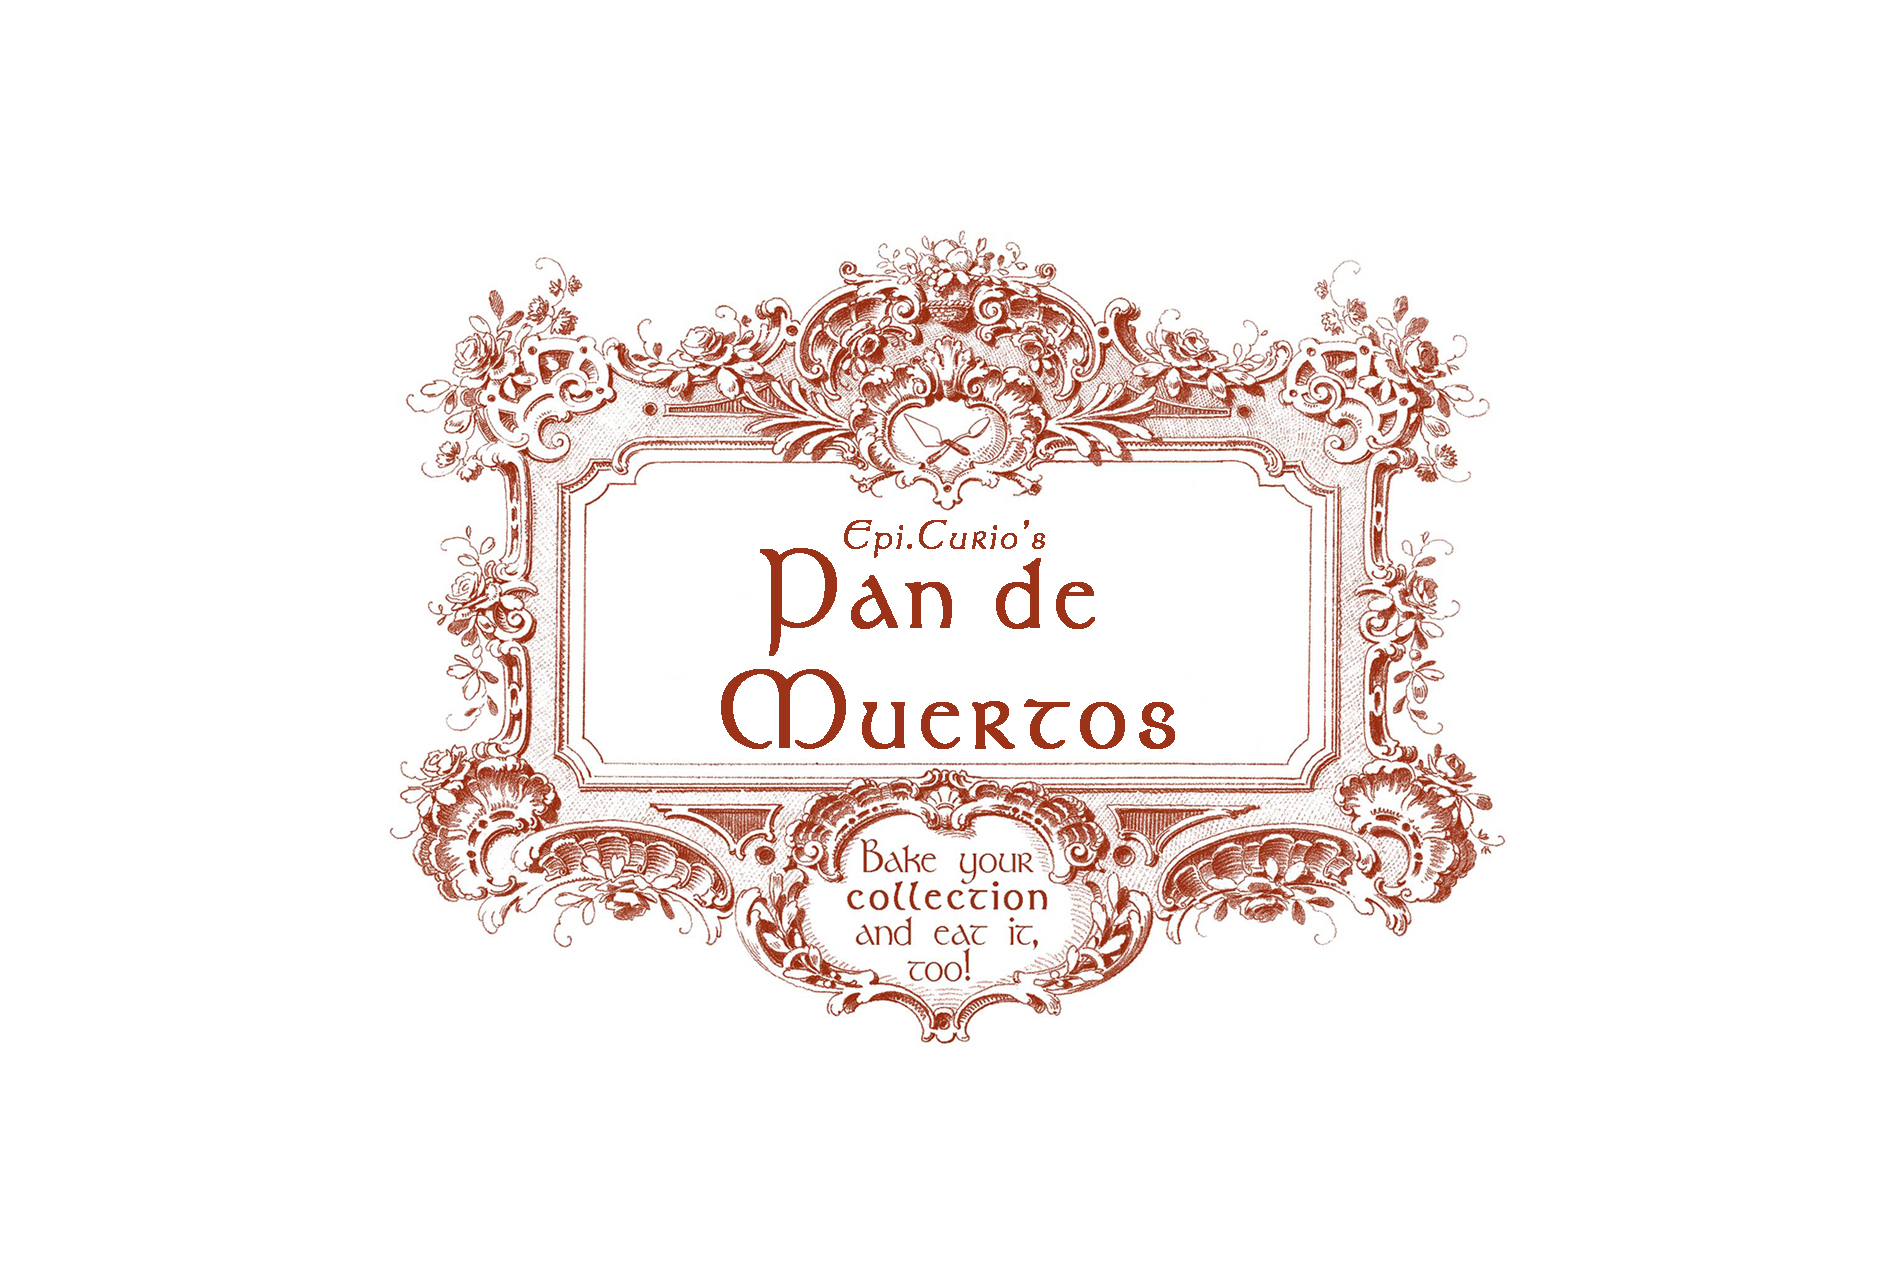
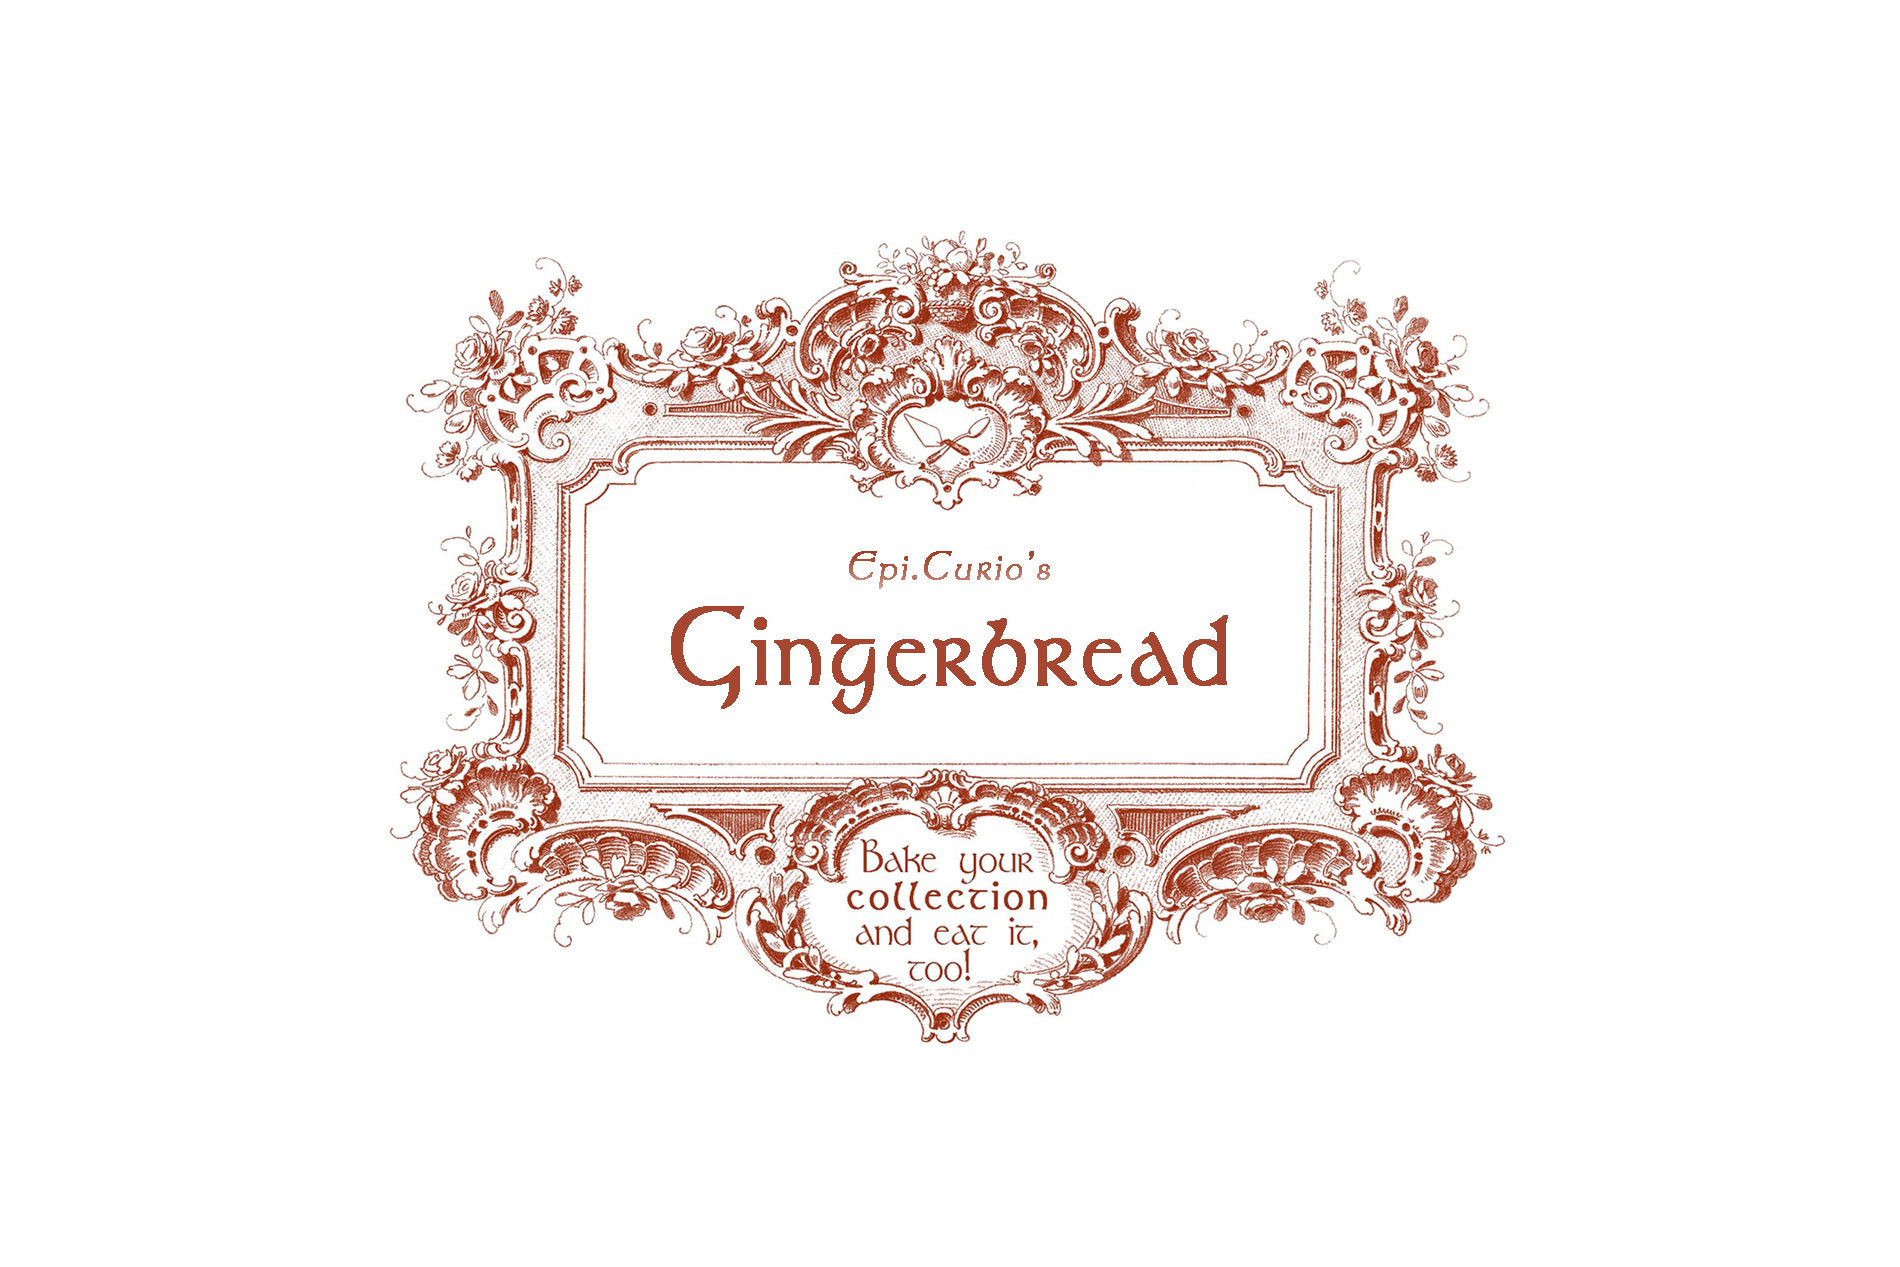
Edited page

Changed region(s): [[0.3416, 0.4002, 0.6521, 0.6156]]

diff --git a/index.html b/index.html
@@ -59,7 +59,7 @@
                     <span class="icon-bar"></span>
                     <span class="icon-bar"></span>
                 </button>
-                <a class="navbar-brand page-scroll" href="#page-top">Pan de Muertos</a>
+                <a class="navbar-brand page-scroll" href="#page-top">Gingerbread</a>
             </div>
 
             <!-- Collect the nav links, forms, and other content for toggling -->
@@ -100,9 +100,9 @@
         <div class="container">
             <div class="row">
                 <div class="col-lg-8 col-lg-offset-2 text-center">
-                    <h2 class="section-heading">In the age of conquest in the Americas, Europeans brought back spices, ingredients and recipes from the New World, but also antiquities and curiosities (including <a href="http://thewalrus.ca/grave-injustice/">looting graves</a>). </h2>
+                    <h2 class="section-heading">Gingerbread is a seasonal favourite that dates back to the <a href="http://www.theoldfoodie.com/2006/12/through-ages-with-gingerbread.html">fifteenth century</a>. Originally a dense cake flavoured with honey and aromatic spices like cinnamon and allspice, since the Victorian era it more commonly takes the shape of crisp biscuits in the form of houses or people. </h2>
                     <hr class="light">
-                    <p class="text-faded">Today, <a href="https://en.wikipedia.org/wiki/Repatriation"">repatriation</a> of sacred objects and human remains is critical, so why not bake your antiquities instead? Spiced with the chilies, cocoa, and cinnamon that captivated European taste buds, this traditional dead bread (made during the <a href="https://en.wikipedia.org/wiki/Day_of_the_Dead">Mexican Day of the Dead</a> festivities) is also warmed by amaranth flour, orange and sugar. Consider baking an entire evolutionary sequence of baked <a href="http://humanorigins.si.edu/evidence/human-fossils">fossils</a>!</p>
+                    <p class="text-faded">The Victorian era shifted the way that December holidays, and Christmas in particular, were celebrated. At the same time, architecture and the celebration of death and memory were also transformed, with ever-more elaborate material culture. You can experience these Victorian revolutions by baking your very own gingerbread parish church and churchyard, with cinnamon, spice, and everything nice.</p>
                 </div>
             </div>
         </div>
@@ -120,24 +120,20 @@
         <div class="container">
             <div class="row">
 			<p><b>Dough:</b></p>
-			<p>¼ cup butter (can be replaced with margarine) </p>
-			<p>¼ cup milk</p>
-			<p>¼ cup warm water (approx. 45º C) </p>
-			<p>3 cups flour (half amaranth, half bread or all-purpose flour – can also use entirely all-purpose flour) </p>
-			<p>1 ¼ teaspoons active dry yeast</p>
-			<p>½ teaspoon salt</p>
-			<p>2 teaspoons anise seed </p>
-			<p>1/2 teaspoon chili powder</p>
+			<p>2 cups molasses (or treacle) </p>
+			<p>1 cup equal parts butter and lard, mixed</p>
+			<p>2 tablespoons ground ginger </p>
 			<p>1 teaspoon cinnamon</p>
-			<p>¼ cup sugar</p>
-			<p>2 eggs, beaten </p>
-			<p>Zest of one orange</p>
+			<p>1 teaspoon nutmeg</p>
+			<p>1 teaspoon baking soda </p>
+			<p>Flour, enough to make mix stiff (approximately 4-6 cups)</p>
 			<br>  
-			<p><b>Glaze:</b></p>
-			<p>¼ cup sugar</p>
-			<p>¼ cup orange juice</p>
+			<p><b>Icing:</b></p>
+			<p>4 egg whites</p>
+			<p>4 cups sifted confectioners' sugar (icing sugar)</p>
+			<p>1 teaspoon peppermint extract </p>
 			<br>
-			<p>Cocoa powder and cinnamon, for dusting </p>
+			<p>Decorative candies, sugar, etc. to design your churchyard landscape </p>
 
             </div>
 			</div>
@@ -151,15 +147,20 @@
         </div>
         <div class="container">
             <div class="row">
-			<p>1.	In a medium saucepan, heat milk and butter until butter melts. Remove from heat before adding the warm water.</p> 
-			<p>2.	In a small bowl, combine all purpose and amaranth flours. Then, in a large bowl, stir together 1 cup of flour, yeast, salt, the fragrant anise seed, cinnamon, and chili powder, as well as ¼ cup of sugar. Beat in the warm milk mixture, at which time the yeasty fragrance of fresh bread will be eminent. Add eggs and orange zest. Make small additions of flour until the dough is soft (may not use all of flour mixture). </p>
-			<p>3.	On a lightly floured surface, work the dough (and your muscles) until it becomes smooth and elastic. It will be silky to the touch, speckled with zest and spices, and smelling sweetly of orange. </p>
-			<p>4.	Let it rise in a lightly greased bowl covered with plastic wrap, in a warm place. It will take 1 to 2 hours to double in size. Punch the dough down and shape it into the shape of a skull. Can also twist longer pieces into long bones. Place these skeletal loaves onto a baking sheet, cover loosely with plastic wrap, and let rise again in a warm place (again, roughly 1 hour until just about doubled in size). </p>
-			<p>5.	Bake in preheated oven (175 degrees C/350 F) for 35 to 45 minutes until golden and it sounds hollow when you tap on the bottom. NOTE: If you make smaller long bones, these will bake faster than the larger skull loaf. </p>
-			<p>6.	Let cool slightly before brushing with the GLAZE: combine ¼ cup sugar and orange juice in small saucepan, bring to a boil over medium heat and boil for 2 minutes. Add a dusting of cinnamon and cocoa powder in crevices of skull for added effect and aroma. </p>
+			<p>1.	Melt butter in saucepan over medium-low heat, then add molasses and spices. Warm your kitchen with the aromas of the holiday season.</p> 
+			<p>2.	Dissolve baking soda in a tablespoon of very hot water. Add to butter mixture. </p>
+			<p>3.	Stir in flour gradually, until the mixture forms a stiff dough (your muscles will tell you its time to stop). </p>
+			<p>4.	Roll out on a floured board to 1/4-1/3 inch thick (for structural pieces, thicker maybe a bit more sound). Use a knife and template to cut the pieces to build a church, monuments, trees, and any other landscape features you can dream up. </p>
+			<p>5.   Cool in a refrigerator for 15-20 minutes. </p>
+			<p>6.	Bake in preheated oven (175 degrees C/350 F) for 10 to 15 minutes until lightly brown. NOTE: Baking time will vary between large and small pieces. Try to group biscuits of similar sizes on baking sheets. </p>
+			<p>7.	Let cool completely. Meanwhile, prepare icing: beat egg whites in large bowl with a mixer at high speed, until foaming. Add sugar gradually, then extract. Beat until thick. </p>
+			<p>8.   With icing in piping bag, begin construction. Use icing to join pieces of gingerbread together; pieces may need to be supported until icing sets (it will become cement-like). </p>
 
 			<br>
-			<p> There are many dead bread variations and recipes. Some of these are regional differences, others temporal - as different levels of refined sugars and flours became available, recipes were modified accordingly. It's up to you to experiment and experience the impact these variations have on the process of making and the eating Pan de Muerto. </p>
+			<p> Your imagination is the only limit. Consider lighting the church by putting a small string of Christmas lights or battery operated tealights inside. Using extra icing to create a snowy landscape. Populate the scene with visitors to the cemetery or woodland critters. Melt hard candies to create stain glass, frozen rivers or ponds. Make sure to display your creation - at one time, visiting one's ancestors was an important part of the holiday season. </p>
+			
+			<br>
+			<p> Recipe adapted from <a href="http://www.theoldfoodie.com/2006/12/through-ages-with-gingerbread.html">The Old Foodie</a>. </p>
                 </div>
             </div>
         </div>
